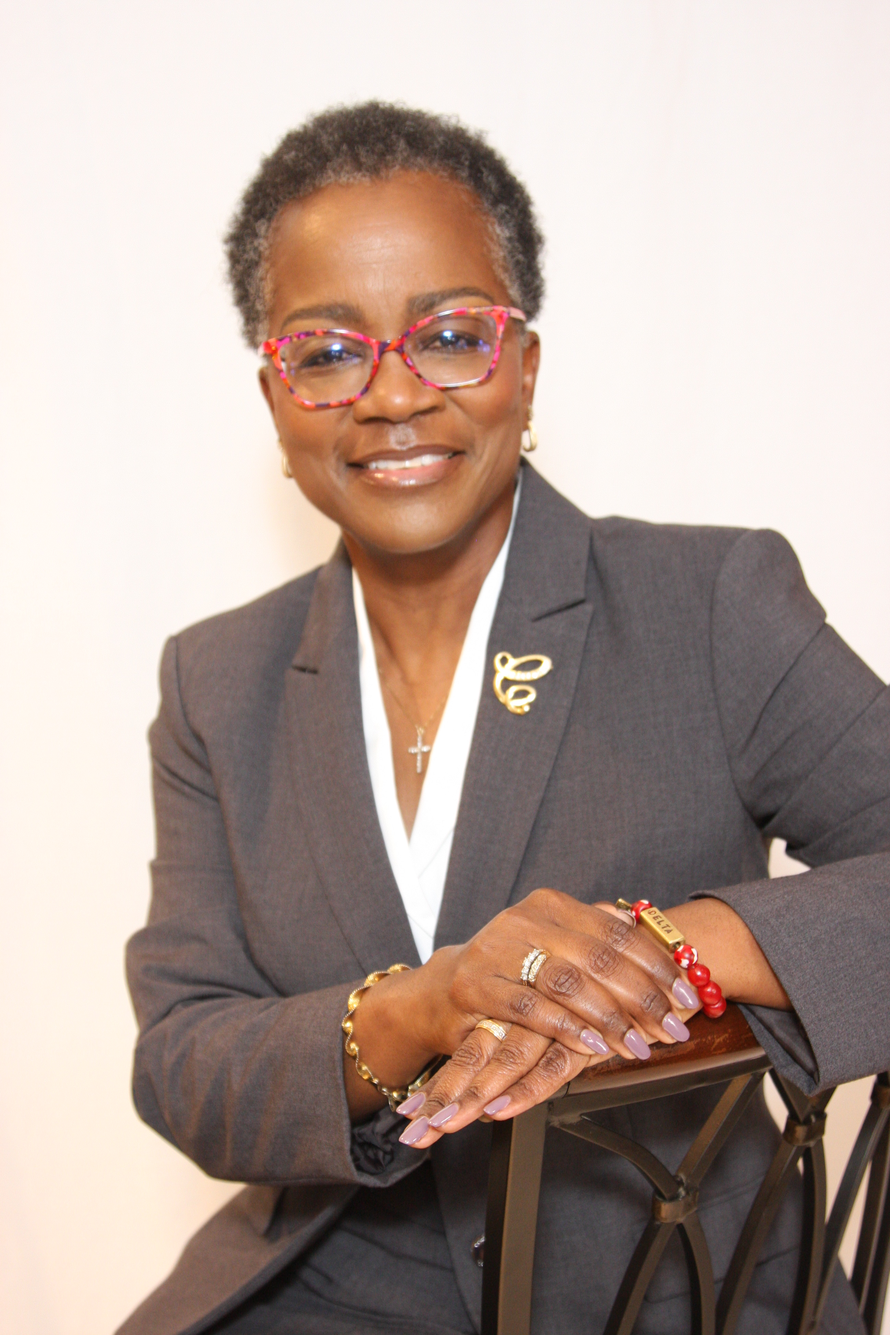
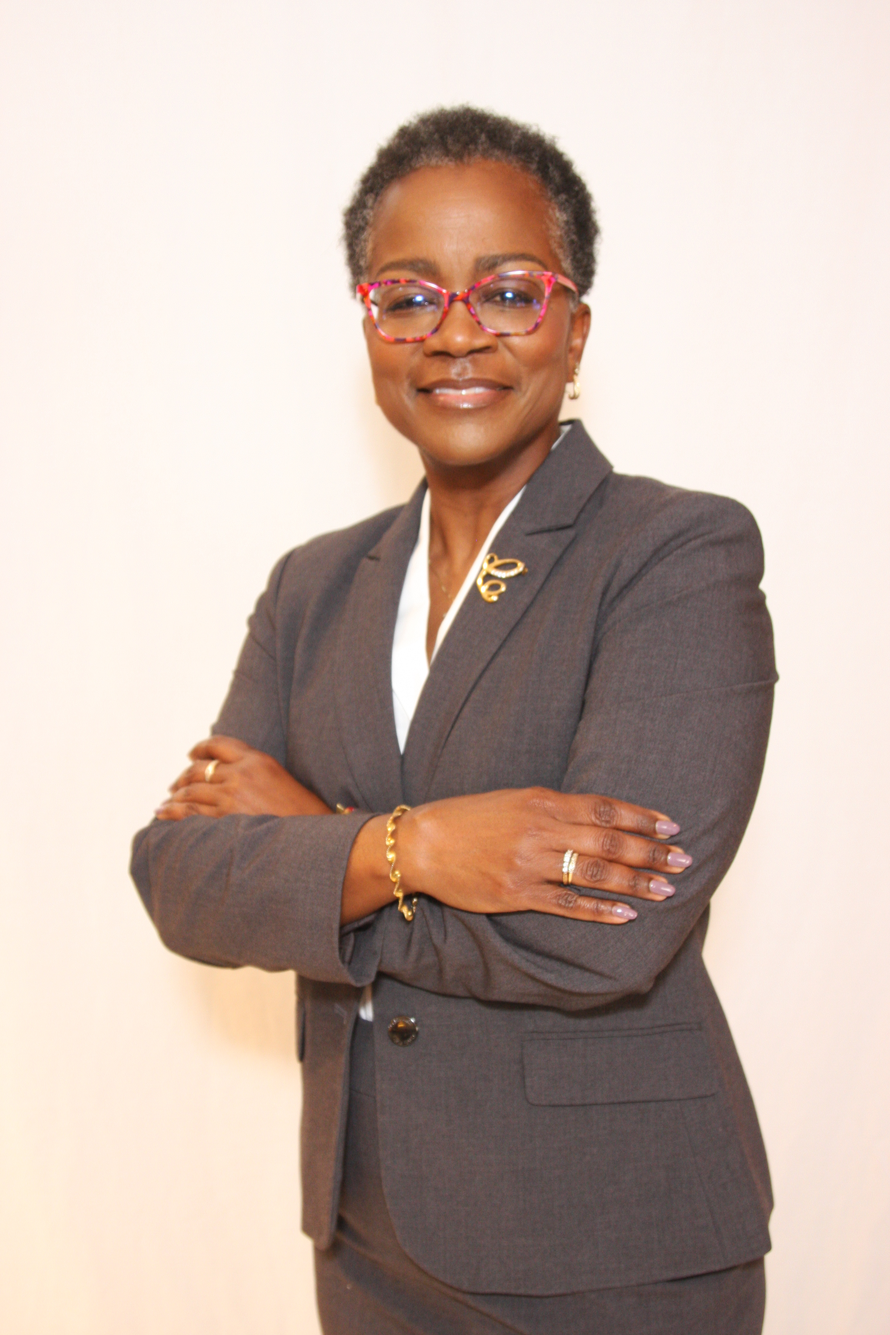
feat: new headshot, mobile layout reorder, remove Join the Movement
- Replace headshot with new IMG_8084 photo (arms-crossed gray blazer)
- Home hero: headshot now appears above/first on mobile (order-1) while
  logo + Election Day remain left on desktop (lg:order-1)
- Remove FundraisingThermometer / 'Join the Movement' section from home page;
  'Your Chancery Court' body copy is now full-width with 4-column stats row
- About page hero: restructured to two-column (text left, headshot right on
  desktop; headshot above on mobile) matching home page pattern
- Remove duplicate headshot from about page bio section (now in hero above)
- Confirmed zero Delta (Δ) symbols anywhere in codebase
- CampaignMixtape was already unused — no audio rendered on any page

diff --git a/src/app/page.tsx b/src/app/page.tsx
@@ -4,7 +4,6 @@ import ScrollReveal from "@/components/ScrollReveal";
 import CountUpNumber from "@/components/CountUpNumber";
 import ElectionCountdown from "@/components/ElectionCountdown";
 import EmailSignup from "@/components/EmailSignup";
-import FundraisingThermometer from "@/components/FundraisingThermometer";
 import FAQAccordion from "@/components/FAQAccordion";
 import SocialShare from "@/components/SocialShare";
 
@@ -72,8 +71,8 @@ export default function Home() {
         <div className="relative z-10 mx-auto max-w-7xl w-full px-4 sm:px-6 lg:px-8 py-32">
           <div className="grid grid-cols-1 lg:grid-cols-2 gap-12 items-center">
 
-            {/* LEFT — Logo + Election Day */}
-            <div className="animate-fade-in-up flex flex-col items-center lg:items-start text-center lg:text-left">
+            {/* LEFT — Logo + Election Day (shown below headshot on mobile) */}
+            <div className="animate-fade-in-up flex flex-col items-center lg:items-start text-center lg:text-left order-2 lg:order-1">
               <div className="mb-8">
                 <Image
                   src="/images/hero-logo.png"
@@ -114,8 +113,8 @@ export default function Home() {
               </div>
             </div>
 
-            {/* RIGHT — Rhonda's Headshot */}
-            <div className="animate-fade-in-up stagger-2 flex justify-center lg:justify-end">
+            {/* RIGHT — Rhonda's Headshot (shown first/above on mobile) */}
+            <div className="animate-fade-in-up stagger-2 flex justify-center lg:justify-end order-1 lg:order-2">
               <div className="relative w-72 sm:w-80 lg:w-96 xl:w-[420px]">
                 <div className="aspect-[3/4] rounded-3xl overflow-hidden shadow-2xl border border-white/10 relative">
                   <Image
@@ -178,11 +177,11 @@ export default function Home() {
         </div>
       </section>
 
-      {/* Why This Race Matters + Fundraising */}
+      {/* Why This Race Matters */}
       <section className="py-20 sm:py-28 bg-cream">
         <div className="mx-auto max-w-7xl px-4 sm:px-6 lg:px-8">
-          <div className="grid grid-cols-1 lg:grid-cols-2 gap-12 items-center">
-            <ScrollReveal>
+          <ScrollReveal>
+            <div className="max-w-3xl">
               <h2 className="font-heading text-3xl sm:text-4xl md:text-5xl font-bold text-forest mb-6 leading-tight">
                 Your Chancery Court.<br />
                 <span className="text-amber">Your Family&apos;s Future.</span>
@@ -203,48 +202,43 @@ export default function Home() {
                 These communities now deserve a Chancery Judge who is responsible, competent, and compassionate
                 in serving every family and its members efficiently, fairly, and respectfully.
               </p>
+            </div>
 
-              <div className="grid grid-cols-2 gap-6 mb-6">
-                <div className="p-6 bg-white rounded-2xl shadow-sm text-center hover-lift">
-                  <div className="font-heading text-4xl font-bold text-forest mb-1">
-                    <CountUpNumber target={40} suffix="" />
-                  </div>
-                  <p className="text-mauve font-body text-sm">Years of Legal Experience</p>
+            <div className="grid grid-cols-2 sm:grid-cols-4 gap-6 mb-6">
+              <div className="p-6 bg-white rounded-2xl shadow-sm text-center hover-lift">
+                <div className="font-heading text-4xl font-bold text-forest mb-1">
+                  <CountUpNumber target={40} suffix="" />
                 </div>
-                <div className="p-6 bg-white rounded-2xl shadow-sm text-center hover-lift">
-                  <div className="font-heading text-4xl font-bold text-forest mb-1">
-                    <CountUpNumber target={2} />
-                  </div>
-                  <p className="text-mauve font-body text-sm">Counties Served</p>
-                </div>
-                <div className="p-6 bg-white rounded-2xl shadow-sm text-center hover-lift">
-                  <div className="font-heading text-4xl font-bold text-amber mb-1">
-                    <CountUpNumber target={100} suffix="K+" />
-                  </div>
-                  <p className="text-mauve font-body text-sm">Residents in Subdistrict</p>
-                </div>
-                <div className="p-6 bg-forest rounded-2xl shadow-sm text-center">
-                  <p className="text-amber font-heading text-2xl font-bold mb-1">Nov 3</p>
-                  <p className="text-cream/80 font-body text-sm">Election Day 2026</p>
-                </div>
+                <p className="text-mauve font-body text-sm">Years of Legal Experience</p>
               </div>
+              <div className="p-6 bg-white rounded-2xl shadow-sm text-center hover-lift">
+                <div className="font-heading text-4xl font-bold text-forest mb-1">
+                  <CountUpNumber target={2} />
+                </div>
+                <p className="text-mauve font-body text-sm">Counties Served</p>
+              </div>
+              <div className="p-6 bg-white rounded-2xl shadow-sm text-center hover-lift">
+                <div className="font-heading text-4xl font-bold text-amber mb-1">
+                  <CountUpNumber target={100} suffix="K+" />
+                </div>
+                <p className="text-mauve font-body text-sm">Residents in Subdistrict</p>
+              </div>
+              <div className="p-6 bg-forest rounded-2xl shadow-sm text-center">
+                <p className="text-amber font-heading text-2xl font-bold mb-1">Nov 3</p>
+                <p className="text-cream/80 font-body text-sm">Election Day 2026</p>
+              </div>
+            </div>
 
-              <Link
-                href="/why-rhonda"
-                className="inline-flex items-center gap-2 text-forest font-body font-semibold hover:text-amber transition-colors"
-              >
-                Learn more about why this race matters
-                <svg className="w-4 h-4" fill="none" stroke="currentColor" viewBox="0 0 24 24">
-                  <path strokeLinecap="round" strokeLinejoin="round" strokeWidth={2} d="M9 5l7 7-7 7" />
-                </svg>
-              </Link>
-            </ScrollReveal>
-
-            {/* Fundraising Thermometer */}
-            <ScrollReveal delay={200}>
-              <FundraisingThermometer />
-            </ScrollReveal>
-          </div>
+            <Link
+              href="/why-rhonda"
+              className="inline-flex items-center gap-2 text-forest font-body font-semibold hover:text-amber transition-colors"
+            >
+              Learn more about why this race matters
+              <svg className="w-4 h-4" fill="none" stroke="currentColor" viewBox="0 0 24 24">
+                <path strokeLinecap="round" strokeLinejoin="round" strokeWidth={2} d="M9 5l7 7-7 7" />
+              </svg>
+            </Link>
+          </ScrollReveal>
         </div>
       </section>
 

diff --git a/src/app/about/page.tsx b/src/app/about/page.tsx
@@ -13,45 +13,67 @@ export default function AboutPage() {
   return (
     <>
       {/* Hero */}
-      <section className="pt-32 pb-16 sm:pt-40 sm:pb-20 bg-forest relative overflow-hidden">
+      <section className="pt-24 pb-0 sm:pt-32 bg-forest relative overflow-hidden">
         <div className="absolute inset-0 opacity-10">
           <div className="absolute top-1/3 right-1/4 w-96 h-96 bg-sage rounded-full blur-3xl" />
         </div>
         <div className="relative z-10 mx-auto max-w-7xl px-4 sm:px-6 lg:px-8">
-          <p className="text-sage text-sm font-body font-medium tracking-[0.2em] uppercase mb-4 animate-fade-in">
-            Meet the Candidate
-          </p>
-          <h1 className="font-heading text-4xl sm:text-5xl md:text-6xl font-bold text-white leading-tight animate-fade-in-up">
-            Rhonda C. Cooper, <span className="text-amber">Esq.</span>
-          </h1>
-          <p className="text-cream/80 font-body text-lg sm:text-xl max-w-2xl mt-4 leading-relaxed animate-fade-in-up stagger-2">
-            Nearly four decades of legal practice. A career built not on ambition for the bench,
-            but on service to the families who depend on it.
-          </p>
+          <div className="grid grid-cols-1 lg:grid-cols-2 gap-8 lg:gap-12 items-end">
+
+            {/* Left — Text (shown below photo on mobile) */}
+            <div className="order-2 lg:order-1 pb-12 sm:pb-16">
+              <p className="text-sage text-sm font-body font-medium tracking-[0.2em] uppercase mb-4 animate-fade-in">
+                Meet the Candidate
+              </p>
+              <h1 className="font-heading text-4xl sm:text-5xl md:text-6xl font-bold text-white leading-tight animate-fade-in-up">
+                Rhonda C. Cooper, <span className="text-amber">Esq.</span>
+              </h1>
+              <p className="text-cream/80 font-body text-lg sm:text-xl mt-4 leading-relaxed animate-fade-in-up stagger-2">
+                Nearly four decades of legal practice. A career built not on ambition for the bench,
+                but on service to the families who depend on it.
+              </p>
+              <div className="mt-8 flex flex-wrap gap-4">
+                <Link
+                  href="/donate"
+                  className="px-6 py-3 bg-amber text-white font-bold font-body rounded-full hover:bg-amber-dark transition-all text-sm"
+                >
+                  Support Rhonda
+                </Link>
+                <Link
+                  href="/volunteer"
+                  className="px-6 py-3 border border-cream/30 text-cream font-medium font-body rounded-full hover:bg-white/10 transition-all text-sm"
+                >
+                  Volunteer
+                </Link>
+              </div>
+            </div>
+
+            {/* Right — Headshot (shown first/above on mobile) */}
+            <div className="order-1 lg:order-2 flex justify-center lg:justify-end animate-fade-in-up">
+              <div className="relative w-64 sm:w-72 lg:w-80 xl:w-96">
+                <div className="aspect-[3/4] rounded-t-3xl overflow-hidden shadow-2xl border border-white/10 relative">
+                  <Image
+                    src="/images/rhonda-headshot.jpg"
+                    alt="Attorney Rhonda C. Cooper"
+                    fill
+                    className="object-cover object-top"
+                    sizes="(max-width: 768px) 256px, (max-width: 1024px) 288px, 384px"
+                    priority
+                  />
+                </div>
+              </div>
+            </div>
+
+          </div>
         </div>
       </section>
 
       {/* Bio Section */}
       <section className="py-20 bg-white">
         <div className="mx-auto max-w-7xl px-4 sm:px-6 lg:px-8">
-          <div className="grid grid-cols-1 lg:grid-cols-5 gap-12">
-            {/* Headshot */}
-            <div className="lg:col-span-2">
-              <ScrollReveal>
-                <div className="aspect-[3/4] rounded-3xl overflow-hidden shadow-xl sticky top-28 relative">
-                  <Image
-                    src="/images/rhonda-headshot.jpg"
-                    alt="Attorney Rhonda C. Cooper"
-                    fill
-                    className="object-cover object-top"
-                    sizes="(max-width: 1024px) 100vw, 40vw"
-                  />
-                </div>
-              </ScrollReveal>
-            </div>
-
+          <div className="max-w-3xl">
             {/* Bio Content */}
-            <div className="lg:col-span-3">
+            <div>
               <ScrollReveal>
                 <h2 className="font-heading text-3xl sm:text-4xl font-bold text-forest mb-6">
                   38 Years in the Making
